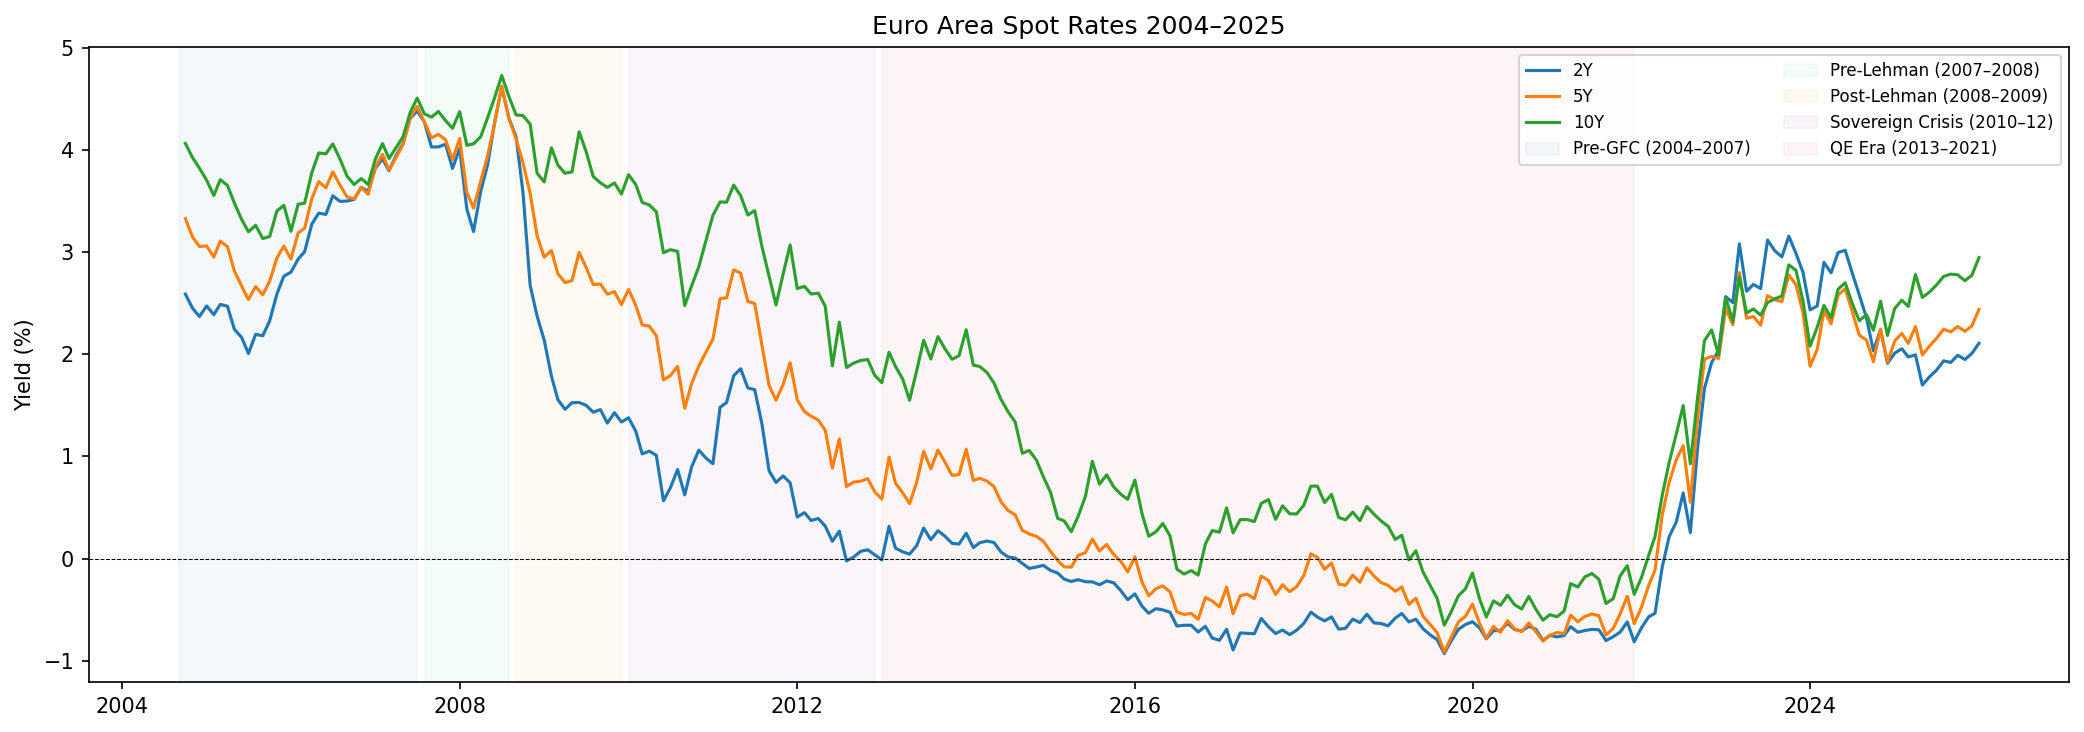
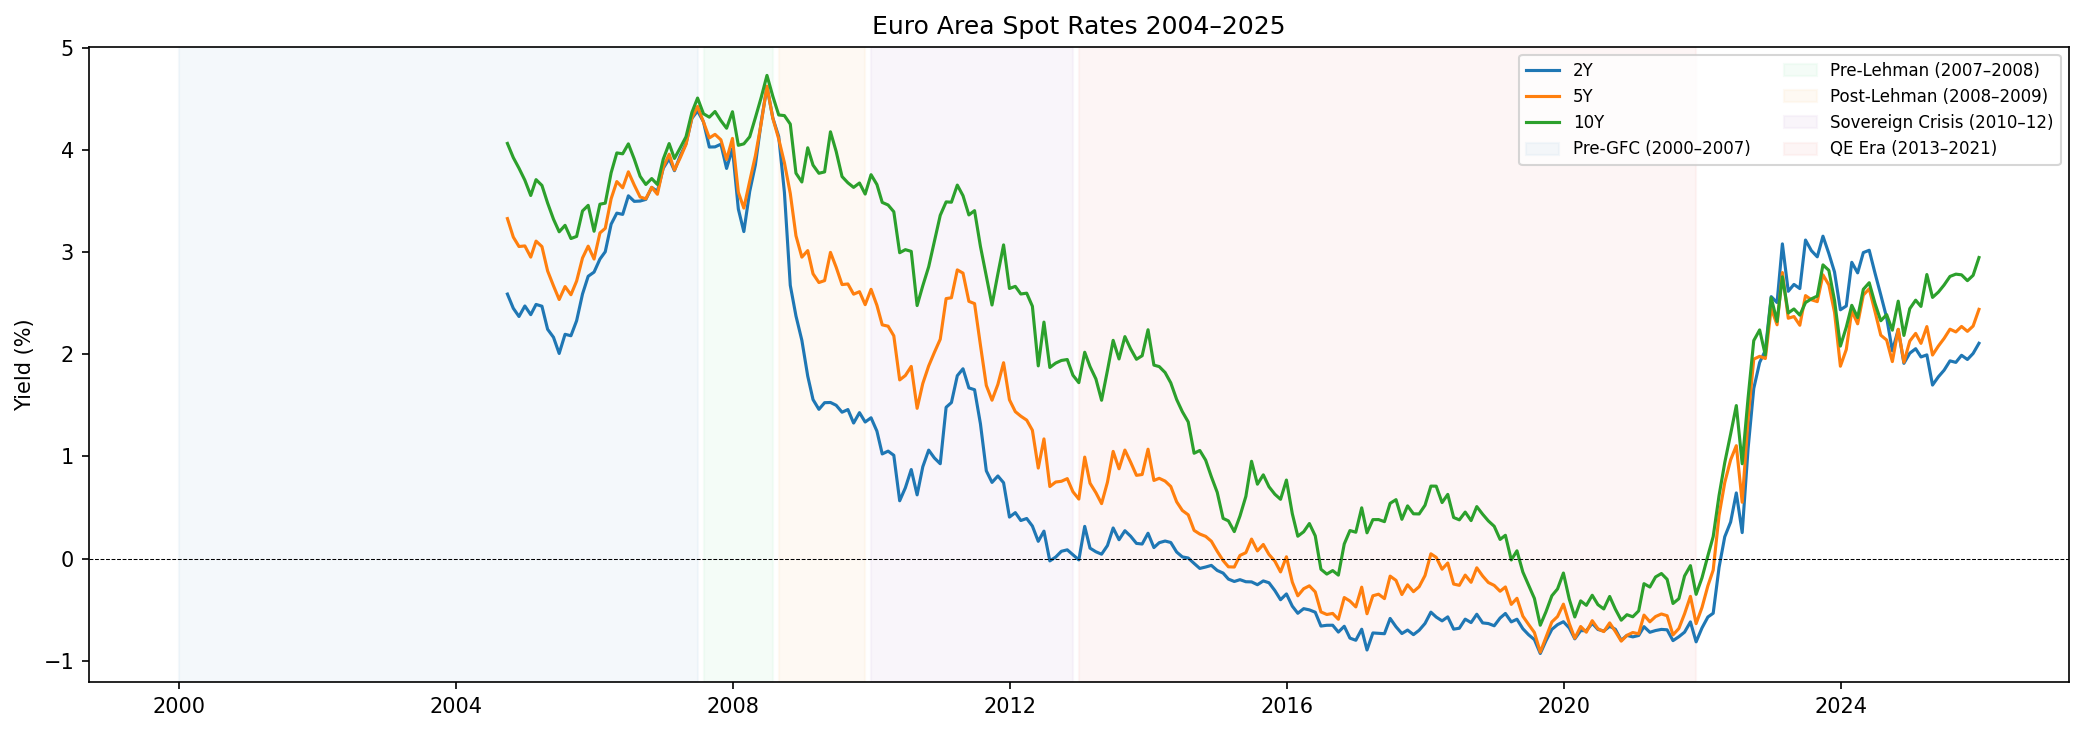
added refinitiv improt as a primary import and updated the graphs with full 2000s data

diff --git a/data/data_import.py b/data/data_import.py
@@ -4,21 +4,91 @@ import pandas as pd
 from io import StringIO
 from pathlib import Path
 
-DATA_PROCESSED = Path("C:/Users/tuoma/PycharmProjectsfixedincome/data/processed")
-DATA_PROCESSED.mkdir(exist_ok=True)  # creates the folder if it doesn't exist
+# dynamic path
+BASE = Path(__file__).parent.parent  # goes up from data/ to project root
+DATA_RAW       = BASE / "data" / "raw"
+DATA_PROCESSED = BASE / "data" / "processed"
+DATA_PROCESSED.mkdir(exist_ok=True)
+DATA_RAW.mkdir(exist_ok=True)
 
 
 ##########################
 ### SELECT WHAT TO IMPORT!
 ##########################
 
-import_ecb_spot = False
-import_etf_data = True
-import_msci = False
+# ── SELECT WHAT TO IMPORT ─────────────────────────────────────
+import_ecb_spot     = False
+import_etf_data     = False
+import_msci         = False
+import_refinitiv    = True   # ← new flag
 
 ##########################
 
 
+
+# ── Refinitiv fetch function ──────────────────────────────────
+def fetch_and_save_refinitiv():
+    rd.open_session()
+    print("✓ Refinitiv session opened")
+
+    def fetch_series(tickers: dict) -> pd.DataFrame:
+        frames = {}
+        for name, ric in tickers.items():
+            print(f"  Fetching {name} ({ric})...")
+            try:
+                df = rd.get_history(
+                    universe=ric,
+                    fields=["TR.DAILYTOTALRETURN"],
+                    interval="monthly",
+                    start="2000-01-01",
+                    end="2025-12-31",
+                )
+                if df is None or df.empty:
+                    print(f"  ✗ {name}: empty response")
+                    continue
+
+                # Print actual columns so we know what Refinitiv returned
+                print(f"  Columns returned: {list(df.columns)}")
+                print(df.head(3))
+
+                # Take the first non-index column regardless of name
+                series = df.iloc[:, 0].rename(name)
+                frames[name] = series
+                print(f"  ✓ {name}: {series.index.min().date()} → {series.index.max().date()}")
+            except Exception as e:
+                print(f"  ✗ {name}: {e}")
+        return pd.DataFrame(frames)
+
+    # ── Fetch ─────────────────────────────────────────────────
+    govt_prices = fetch_series({
+        "govt_all": ".IBBEU0144",   # iBoxx EUR Sovereigns (all maturities)
+    })
+
+    corp_prices = fetch_series({
+        "corp_ig":  ".IBBEU003D",   # iBoxx EUR Corporates IG
+    })
+
+    if govt_prices.empty or corp_prices.empty:
+        print("✗ No data retrieved — check RICs and session")
+        rd.close_session()
+        return
+
+    # ── Compute log returns ───────────────────────────────────
+    all_prices  = pd.concat([govt_prices, corp_prices], axis=1)
+    all_returns = np.log(all_prices / all_prices.shift(1))
+    all_returns.columns = [c + "_logret" for c in all_prices.columns]
+
+    print(f"\nCoverage:")
+    print(all_prices.apply(lambda c:
+          f"{c.first_valid_index().date()} → {c.last_valid_index().date()}"))
+
+    # ── Save ──────────────────────────────────────────────────
+    all_prices.to_parquet(DATA_PROCESSED / "refinitiv_prices.parquet")
+    all_returns.to_parquet(DATA_PROCESSED / "refinitiv_returns.parquet")
+    print("✓ Saved refinitiv_prices.parquet and refinitiv_returns.parquet")
+
+    rd.close_session()
+    print("✓ Session closed")
 
 # ── ECB Spot Rates ────────────────────────────────────────────
 
@@ -160,3 +230,10 @@ else:
 
 if import_msci:
     fetch_and_save_msci()
+else:
+    print("⚠ Skipped msci data (import_msci_data = False)")
+
+if import_refinitiv:
+    fetch_and_save_refinitiv()
+else:
+    print("⚠ Skipped msci data (import_refinitiv_data = False)")

diff --git a/src/data_loader.py b/src/data_loader.py
@@ -25,12 +25,38 @@ def load_etf_prices() -> pd.DataFrame:
 
 def load_etf_returns() -> pd.DataFrame:
     """
-    Monthly ETF log returns.
+    Monthly bond log returns.
+    Prefers Refinitiv iBoxx indices (2000-2025) if available.
+    Falls back to iShares ETF proxies (2008/2009-2025) if not.
     Columns: govt_short_logret, govt_mid_logret, govt_long_logret,
-             corp_ig_logret, equity_logret
-    Coverage: govt/equity ~2008, corp_ig ~2009
+             corp_ig_logret
     """
-    return pd.read_parquet(DATA_PROCESSED / "etf_returns.parquet")
+    refinitiv_govt = DATA_PROCESSED / "refinitiv_govt_returns.parquet"
+    refinitiv_corp = DATA_PROCESSED / "refinitiv_corp_returns.parquet"
+
+    if refinitiv_govt.exists() and refinitiv_corp.exists():
+        print("  Using Refinitiv iBoxx data")
+        govt = pd.read_parquet(refinitiv_govt)
+        corp = pd.read_parquet(refinitiv_corp)
+        return pd.concat([govt, corp], axis=1)
+    else:
+        print("  Using ETF proxy data (Refinitiv not available)")
+        return pd.read_parquet(DATA_PROCESSED / "etf_returns.parquet")
+
+
+def load_corp_oas() -> pd.Series:
+    """
+    Monthly corporate bond OAS spread (iBoxx EUR Corp IG).
+    Only available when Refinitiv data has been fetched.
+    Returns None if not available.
+    Coverage: Jan 2000 – Dec 2025
+    """
+    path = DATA_PROCESSED / "refinitiv_corp_oas.parquet"
+    if path.exists():
+        return pd.read_parquet(path)["corp_oas"]
+    else:
+        print("  OAS data not available — run fetch_and_save_refinitiv()")
+        return None
 
 
 def load_msci_europe() -> pd.Series:
@@ -45,16 +71,12 @@ def load_msci_europe() -> pd.Series:
 
 
 def load_all_asset_returns() -> pd.DataFrame:
-    """
-    Convenience loader: all ETF log returns + MSCI Europe aligned to common sample.
-    Normalizes both indices to month-end before joining to avoid date mismatch.
-    Columns: equity, govt_short, govt_mid, govt_long, corp_ig
-    Coverage: common sample only (rows with any NaN dropped, starts ~2009-05)
-    """
     etf  = load_etf_returns()
     msci = load_msci_europe()
 
-    # Normalize to month-end — ETF dates are month-start, MSCI dates are month-end
+    # Safety check — print available columns so mismatches are visible
+    print(f"  ETF columns available: {list(etf.columns)}")
+
     etf.index  = etf.index.to_period("M").to_timestamp("M")
     msci.index = msci.index.to_period("M").to_timestamp("M")
 
@@ -66,4 +88,6 @@ def load_all_asset_returns() -> pd.DataFrame:
         "corp_ig":    etf["corp_ig_logret"],
     }).dropna()
 
+    print(f"  Common sample: {df.index.min().date()} → {df.index.max().date()}")
+    print(f"  Observations: {len(df)}")
     return df

diff --git a/main.py b/main.py
@@ -134,10 +134,10 @@ def run_module(label: str, module):
     except Exception as e:
         print(f"  ✗ failed — {e}\n")
 
-#run_module("Q1: Yield Curve Dynamics",          q1)
-#run_module("Q2: Forward Rates",                 q2)
-#run_module("Q3: Duration Risk",                 q3)
-#run_module("Q4: Credit Markets",                q4)
+run_module("Q1: Yield Curve Dynamics",          q1)
+run_module("Q2: Forward Rates",                 q2)
+run_module("Q3: Duration Risk",                 q3)
+run_module("Q4: Credit Markets",                q4)
 run_module("Q5: Portfolio & Systematic Risk",   q5)
 
 print("\n── Saving numerical summary tables ──")

diff --git a/src/config.py b/src/config.py
@@ -12,7 +12,7 @@ DATA_PROCESSED = ROOT / "data" / "processed"
 OUTPUTS        = ROOT / "outputs"
 
 SUBPERIODS = {
-    "Pre-GFC (2004–2007)":         ("2004-09", "2007-07"),
+    "Pre-GFC (2000–2007)":         ("2000-01", "2007-07"),  # ← extended from 2004-09
     "Pre-Lehman (2007–2008)":      ("2007-08", "2008-08"),
     "Post-Lehman (2008–2009)":     ("2008-09", "2009-12"),
     "Sovereign Crisis (2010–12)":  ("2010-01", "2012-12"),
